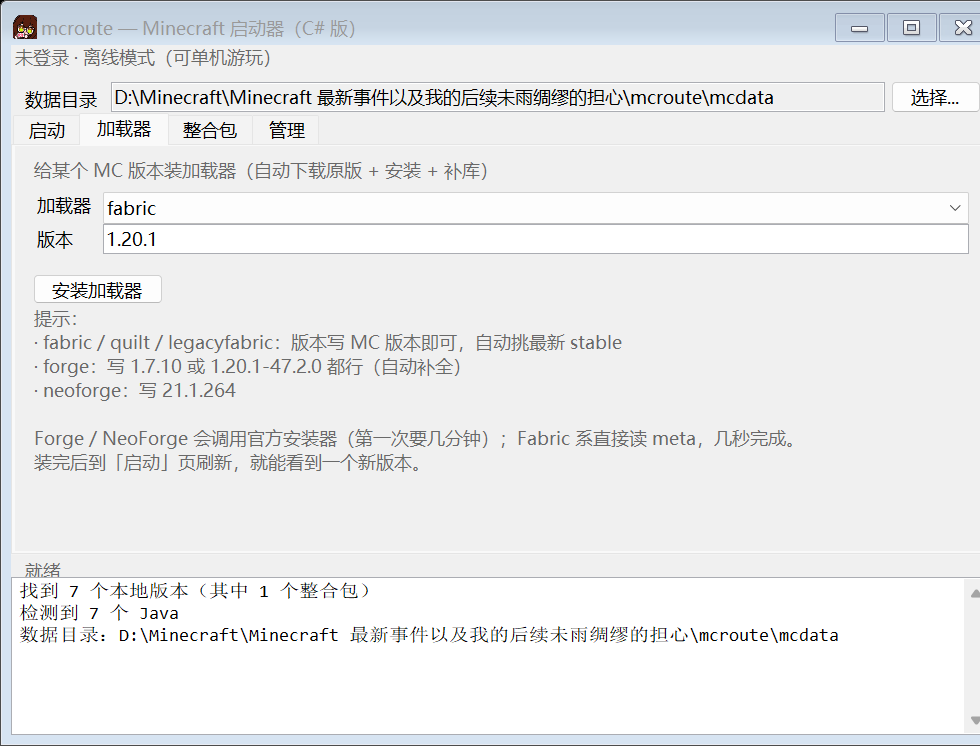
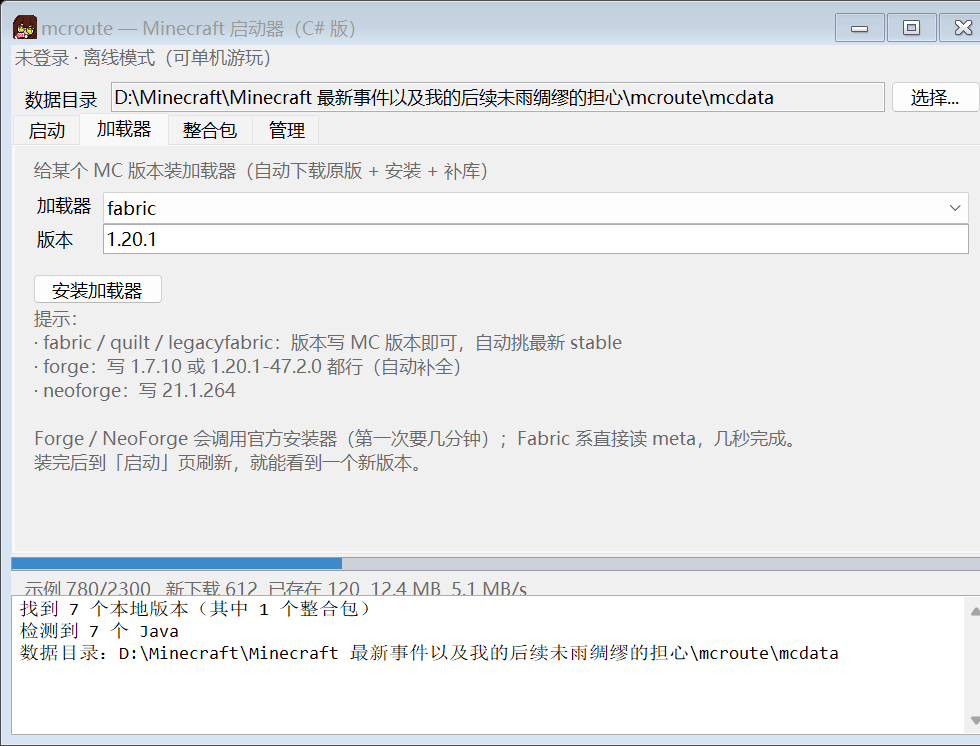
feat: P0 - auto-fetch after pack install, download progress bar, CF key input, first-run guide

Changed region(s): [[0.0, 0.7399, 1.0, 0.8941]]

diff --git a/csharp/MainForm.cs b/csharp/MainForm.cs
@@ -25,6 +25,8 @@ namespace Mcroute
         private TextBox _log;
         private Label _status;
         private TextBox _dataDirBox;
+        private SimpleProgress _progress;
+        private TextBox _cfKeyBox;
         private readonly List<Tuple<string, int>> _javas = new List<Tuple<string, int>>();
 
         public MainForm()
@@ -45,6 +47,23 @@ namespace Mcroute
             BuildUi();
             RefreshAll();
             AppendLog("数据目录：" + _baseDir);
+
+            // 下载进度 -> 进度条 + 状态栏
+            Http.Progress = (text, done, total) =>
+            {
+                if (IsDisposed) return;
+                BeginInvoke(new Action(() =>
+                {
+                    if (total > 0)
+                    {
+                        _progress.Maximum = total;
+                        _progress.Value = Math.Min(done, total);
+                    }
+                    _status.Text = text;
+                }));
+            };
+
+            if (_versionList.Items.Count == 0) BeginInvoke(new Action(FirstRunGuide));
         }
 
         // ---------------- 布局（全部 Dock/TableLayout，窗口放大不会散架） ----------------
@@ -80,6 +99,8 @@ namespace Mcroute
             };
             bottom.Controls.Add(_log);
             bottom.Controls.Add(_status);
+            _progress = new SimpleProgress { Dock = DockStyle.Top, Height = 18 };
+            bottom.Controls.Add(_progress);
 
             var middle = new Panel { Dock = DockStyle.Fill };
             _tabs = new TabControl { Dock = DockStyle.Fill };
@@ -220,8 +241,9 @@ namespace Mcroute
         private TabPage BuildPackTab()
         {
             var page = new TabPage("  整合包  ") { Padding = new Padding(12) };
-            var outer = new TableLayoutPanel { Dock = DockStyle.Fill, ColumnCount = 1, RowCount = 4 };
+            var outer = new TableLayoutPanel { Dock = DockStyle.Fill, ColumnCount = 1, RowCount = 5 };
             outer.RowStyles.Add(new RowStyle(SizeType.Absolute, 28f));
+            outer.RowStyles.Add(new RowStyle(SizeType.Absolute, 40f));
             outer.RowStyles.Add(new RowStyle(SizeType.Absolute, 40f));
             outer.RowStyles.Add(new RowStyle(SizeType.Absolute, 46f));
             outer.RowStyles.Add(new RowStyle(SizeType.Percent, 100f));
@@ -233,6 +255,7 @@ namespace Mcroute
                 ForeColor = Color.DimGray,
             }, 0, 0);
 
+            // 包文件
             var pathRow = new TableLayoutPanel { Dock = DockStyle.Fill, ColumnCount = 3 };
             pathRow.ColumnStyles.Add(new ColumnStyle(SizeType.AutoSize));
             pathRow.ColumnStyles.Add(new ColumnStyle(SizeType.Percent, 100f));
@@ -250,7 +273,7 @@ namespace Mcroute
             };
             pathRow.Controls.Add(path, 1, 0);
             var browse = new Button { Text = "浏览...", Dock = DockStyle.Fill };
-            browse.Click += (s, e) =>
+            browse.Click += (s2, e2) =>
             {
                 using (var dlg = new OpenFileDialog())
                 {
@@ -270,9 +293,25 @@ namespace Mcroute
             pathRow.Controls.Add(browse, 2, 0);
             outer.Controls.Add(pathRow, 0, 1);
 
+            // CurseForge key（只有 Cf 包需要，存在 mcdata/cf_api_key.txt）
+            var keyRow = new TableLayoutPanel { Dock = DockStyle.Fill, ColumnCount = 3 };
+            keyRow.ColumnStyles.Add(new ColumnStyle(SizeType.AutoSize));
+            keyRow.ColumnStyles.Add(new ColumnStyle(SizeType.Percent, 100f));
+            keyRow.ColumnStyles.Add(new ColumnStyle(SizeType.Absolute, 90f));
+            keyRow.Controls.Add(new Label { Text = "CF API key", AutoSize = true, Anchor = AnchorStyles.Left, Margin = new Padding(0, 6, 8, 0) }, 0, 0);
+            _cfKeyBox = new TextBox { Dock = DockStyle.Top, UseSystemPasswordChar = true };
+            string existingKey = Packs.ReadCurseForgeKey(_baseDir);
+            if (!string.IsNullOrEmpty(existingKey)) _cfKeyBox.Text = existingKey;
+            keyRow.Controls.Add(_cfKeyBox, 1, 0);
+            var saveKey = new Button { Text = "保存 key", Dock = DockStyle.Fill };
+            saveKey.Click += (s2, e2) => SaveCfKey();
+            keyRow.Controls.Add(saveKey, 2, 0);
+            outer.Controls.Add(keyRow, 0, 2);
+
+            // 安装按钮
             var installRow = new FlowLayoutPanel { Dock = DockStyle.Fill, Padding = new Padding(0, 8, 0, 0) };
             var install = new Button { Text = "安装这个整合包", Width = 150, Height = 30 };
-            install.Click += (s, e) =>
+            install.Click += (s2, e2) =>
             {
                 if (path.Text.Trim().Length == 0) { MessageBox.Show("先选一个整合包文件", "提示"); return; }
                 string file = path.Text.Trim();
@@ -280,7 +319,7 @@ namespace Mcroute
                     () => Packs.Install(new[] { "install", file, "--dir", _baseDir }));
             };
             installRow.Controls.Add(install);
-            outer.Controls.Add(installRow, 0, 2);
+            outer.Controls.Add(installRow, 0, 3);
 
             outer.Controls.Add(new Label
             {
@@ -288,10 +327,10 @@ namespace Mcroute
                 ForeColor = Color.DimGray,
                 Text = "说明：\n" +
                        "· 也可以把整合包文件直接拖到上面的输入框里\n" +
-                       "· 装成标准 versions/<包名>/ 布局，其它启动器也认\n" +
-                       "· CurseForge 包需要 API key：环境变量 CF_API_KEY，或 mcdata\\cf_api_key.txt\n" +
+                       "· 装完会自动补全依赖（缺什么下什么），可以直接启动\n" +
+                       "· 只有 CurseForge 包需要 API key（在 https://console.curseforge.com 申请），存本地不联网\n" +
                        "· 装完到「管理」页体检 / 测试启动",
-            }, 0, 3);
+            }, 0, 4);
 
             page.Controls.Add(outer);
             return page;
@@ -330,6 +369,34 @@ namespace Mcroute
 
             page.Controls.Add(outer);
             return page;
+        }
+
+        /// <summary>第一次打开且没有任何版本时引导一下。</summary>
+        private void FirstRunGuide()
+        {
+            var r = MessageBox.Show(
+                "还没有任何本地版本。\n\n" +
+                "如果以前用过别的启动器（PCL / HMCL / 官方启动器），可以点「是」把它已有的版本目录导进来，\n" +
+                "不用重新下载。\n\n" +
+                "点「否」就留在当前页面，用右上角「开始下载」装一个原版版本。",
+                "mcroute — 第一次使用", MessageBoxButtons.YesNo, MessageBoxIcon.Information);
+            if (r == DialogResult.Yes) PickDataDir();
+        }
+
+        private void SaveCfKey()
+        {
+            string key = _cfKeyBox.Text.Trim();
+            if (key.Length == 0) { MessageBox.Show("先把 key 粘贴进来", "提示"); return; }
+            try
+            {
+                File.WriteAllText(Path.Combine(_baseDir, "cf_api_key.txt"), key);
+                AppendLog("已保存 CurseForge API key 到 " + Path.Combine(_baseDir, "cf_api_key.txt"));
+                MessageBox.Show("已保存。以后装 CurseForge 整合包不用再填。", "提示");
+            }
+            catch (Exception ex)
+            {
+                MessageBox.Show("保存失败：" + ex.Message, "提示");
+            }
         }
 
         // ---------------- 数据目录 ----------------
@@ -575,6 +642,12 @@ namespace Mcroute
                     return;
                 }
                 _tabs.SelectedIndex = i;
+                if (i == 0)
+                {
+                    _progress.Maximum = 2300;
+                    _progress.Value = 780;
+                    _status.Text = "示例 780/2300   新下载 612  已存在 120  12.4 MB  5.1 MB/s";
+                }
                 Application.DoEvents();
                 try
                 {
@@ -661,5 +734,49 @@ namespace Mcroute
             }
             catch { }
         }
+    }
+}
+
+/// <summary>自绘进度条：系统 ProgressBar 在浅色主题下 0% 时几乎看不见，这个可以控制颜色。</summary>
+public class SimpleProgress : Control
+{
+    private int _max = 100;
+    private int _value;
+
+    public SimpleProgress()
+    {
+        DoubleBuffered = true;
+        SetStyle(ControlStyles.UserPaint | ControlStyles.AllPaintingInWmPaint | ControlStyles.OptimizedDoubleBuffer, true);
+    }
+
+    public int Maximum
+    {
+        get { return _max; }
+        set { _max = Math.Max(1, value); Invalidate(); }
+    }
+
+    public int Value
+    {
+        get { return _value; }
+        set { _value = value; Invalidate(); }
+    }
+
+    protected override void OnPaint(PaintEventArgs e)
+    {
+        Graphics g = e.Graphics;
+        g.Clear(SystemColors.Control);
+        var track = new Rectangle(0, 2, Math.Max(0, Width - 1), Math.Max(0, Height - 5));
+        using (var back = new SolidBrush(Color.FromArgb(205, 210, 216)))
+            g.FillRectangle(back, track);
+
+        double ratio = (double)_value / _max;
+        int w = (int)(track.Width * Math.Min(1.0, Math.Max(0.0, ratio)));
+        if (w > 0)
+        {
+            using (var fill = new SolidBrush(Color.FromArgb(62, 138, 200)))
+                g.FillRectangle(fill, new Rectangle(track.X + 1, track.Y + 1, Math.Max(0, w - 2), Math.Max(0, track.Height - 2)));
+        }
+        using (var border = new Pen(Color.FromArgb(150, 156, 164)))
+            g.DrawRectangle(border, track);
     }
 }

diff --git a/csharp/Http.cs b/csharp/Http.cs
@@ -141,39 +141,67 @@ namespace Mcroute
             return "fail";
         }
 
+        /// <summary>下载进度回调：格式化文本, 已完成数, 总数（GUI 用来画进度条）。</summary>
+        public static Action<string, int, int> Progress;
+
         /// <summary>并发下载一批任务（url, dest, sha1）。</summary>
         public static void DownloadAll(IList<Tuple<string, string, string>> jobs, int workers,
                                        bool verbose = true)
         {
             int total = jobs.Count;
-            if (total == 0) return;
+            if (total == 0)
+            {
+                Console.WriteLine("没有需要下载的文件");
+                if (Progress != null) Progress("没有需要下载的文件", 0, 0);
+                return;
+            }
 
             int ok = 0, skip = 0, fail = 0, done = 0;
+            long bytes = 0;
             var failures = new List<string>();
             var pad = new object();
+            var sw = System.Diagnostics.Stopwatch.StartNew();
+            var lastReport = DateTime.Now;
 
             var options = new ParallelOptions { MaxDegreeOfParallelism = workers };
             System.Threading.Tasks.Parallel.ForEach(jobs, options, job =>
             {
                 string info;
+                long before = File.Exists(job.Item2) ? new FileInfo(job.Item2).Length : 0;
                 string status = Download(job.Item1, job.Item2, job.Item3, out info);
+                long after = File.Exists(job.Item2) ? new FileInfo(job.Item2).Length : 0;
                 lock (pad)
                 {
                     done++;
-                    if (status == "ok") ok++;
+                    if (status == "ok")
+                    {
+                        ok++;
+                        bytes += Math.Max(0, after - before);
+                    }
                     else if (status == "skip") skip++;
                     else
                     {
                         fail++;
                         if (failures.Count < 20) failures.Add(Path.GetFileName(job.Item2) + " -> " + info);
                     }
-                    if (verbose && (done % 100 == 0 || done == total))
-                        Console.WriteLine("  进度 {0}/{1}   新下载 {2}  已存在 {3}  失败 {4}",
-                            done, total, ok, skip, fail);
+
+                    // 每 250ms 汇报一次，避免界面刷新太频繁
+                    if ((DateTime.Now - lastReport).TotalMilliseconds > 250 || done == total)
+                    {
+                        lastReport = DateTime.Now;
+                        double sec = Math.Max(0.001, sw.Elapsed.TotalSeconds);
+                        double rate = bytes / 1024.0 / 1024.0 / sec;
+                        string text = string.Format("{0}/{1}   新下载 {2}  已存在 {3}  失败 {4}   {5:F1} MB  {6:F1} MB/s",
+                            done, total, ok, skip, fail, bytes / 1024.0 / 1024.0, rate);
+                        if (verbose) Console.WriteLine("  " + text);
+                        if (Progress != null) Progress(text, done, total);
+                    }
                 }
             });
 
-            Console.WriteLine("完成：新下载 {0}，跳过 {1}，失败 {2}", ok, skip, fail);
+            string summary = string.Format("完成：新下载 {0}，跳过 {1}，失败 {2}", ok, skip, fail);
+            Console.WriteLine(summary);
+            if (Progress != null) Progress(summary, total, total);
             foreach (string f in failures) Console.WriteLine("  [fail] " + f);
         }
     }

diff --git a/csharp/Packs.cs b/csharp/Packs.cs
@@ -169,6 +169,14 @@ namespace Mcroute
             return File.Exists(Version.VersionJsonPath(baseDir, id));
         }
 
+        /// <summary>装完自动把实例的库/资源补齐 —— 「装完就能启动」的关键一步。</summary>
+        private static void CompleteInstance(string baseDir, string id)
+        {
+            Console.WriteLine();
+            Console.WriteLine("[补全] 检查 " + id + " 的依赖（缺什么下什么，已存在会跳过）...");
+            Commands.Fetch(new[] { "fetch", id, "--dir", baseDir });
+        }
+
         private static void ExtractOverrides(ZipArchive zip, string prefix, string target)
         {
             int count = 0;
@@ -240,9 +248,10 @@ namespace Mcroute
 
             string id = WriteInstanceVersion(baseDir, name, versionId) ?? versionId;
             SaveInstanceMeta(baseDir, name, id, mc, kind, loaderVer, pack);
+            CompleteInstance(baseDir, id);
 
             Console.WriteLine();
-            Console.WriteLine("完成。启动命令：");
+            Console.WriteLine("完成，可以直接启动。命令：");
             Console.WriteLine("  mcroute launch " + id);
             return 0;
         }
@@ -324,14 +333,21 @@ namespace Mcroute
 
             string id = WriteInstanceVersion(baseDir, name, versionId) ?? versionId;
             SaveInstanceMeta(baseDir, name, id, mc, kind, loaderVer, pack);
+            CompleteInstance(baseDir, id);
 
             Console.WriteLine();
-            Console.WriteLine("完成。启动命令：");
+            Console.WriteLine("完成，可以直接启动。命令：");
             Console.WriteLine("  mcroute launch " + id);
             return 0;
         }
 
         // ================= CurseForge zip =================
+        /// <summary>给 GUI 读当前已保存的 key（可能为空）。</summary>
+        public static string ReadCurseForgeKey(string baseDir)
+        {
+            return CurseForgeKey(baseDir);
+        }
+
         private static string CurseForgeKey(string baseDir)
         {
             string env = Environment.GetEnvironmentVariable("CF_API_KEY");
@@ -463,9 +479,10 @@ namespace Mcroute
 
             string id = WriteInstanceVersion(baseDir, name, versionId) ?? versionId;
             SaveInstanceMeta(baseDir, name, id, mc, kind, loaderVer, pack);
+            CompleteInstance(baseDir, id);
 
             Console.WriteLine();
-            Console.WriteLine("完成。启动命令：");
+            Console.WriteLine("完成，可以直接启动。命令：");
             Console.WriteLine("  mcroute launch " + id);
             return 0;
         }
